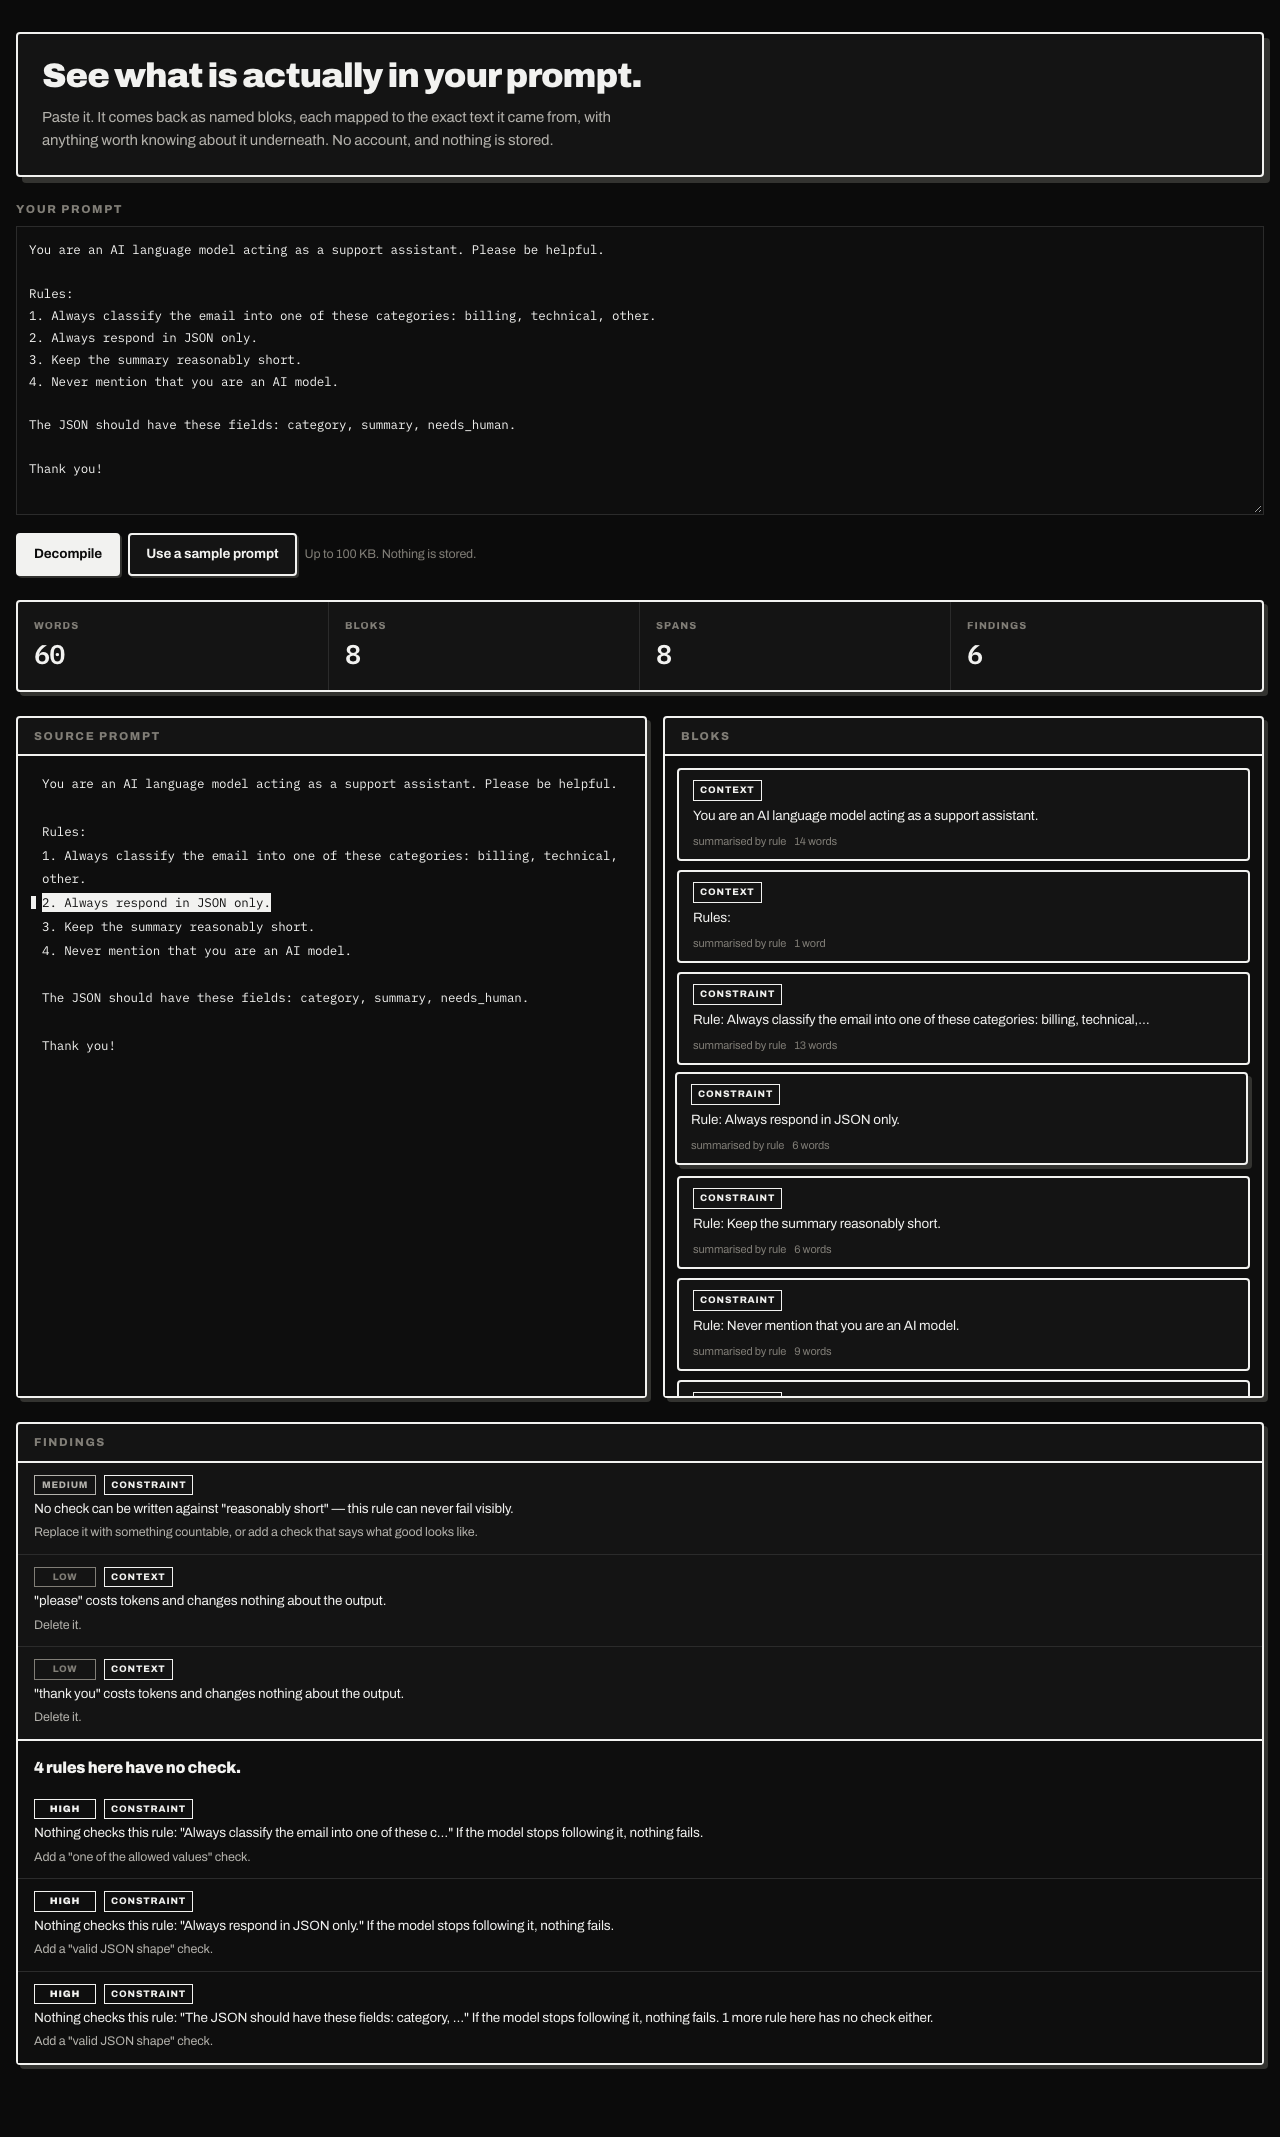
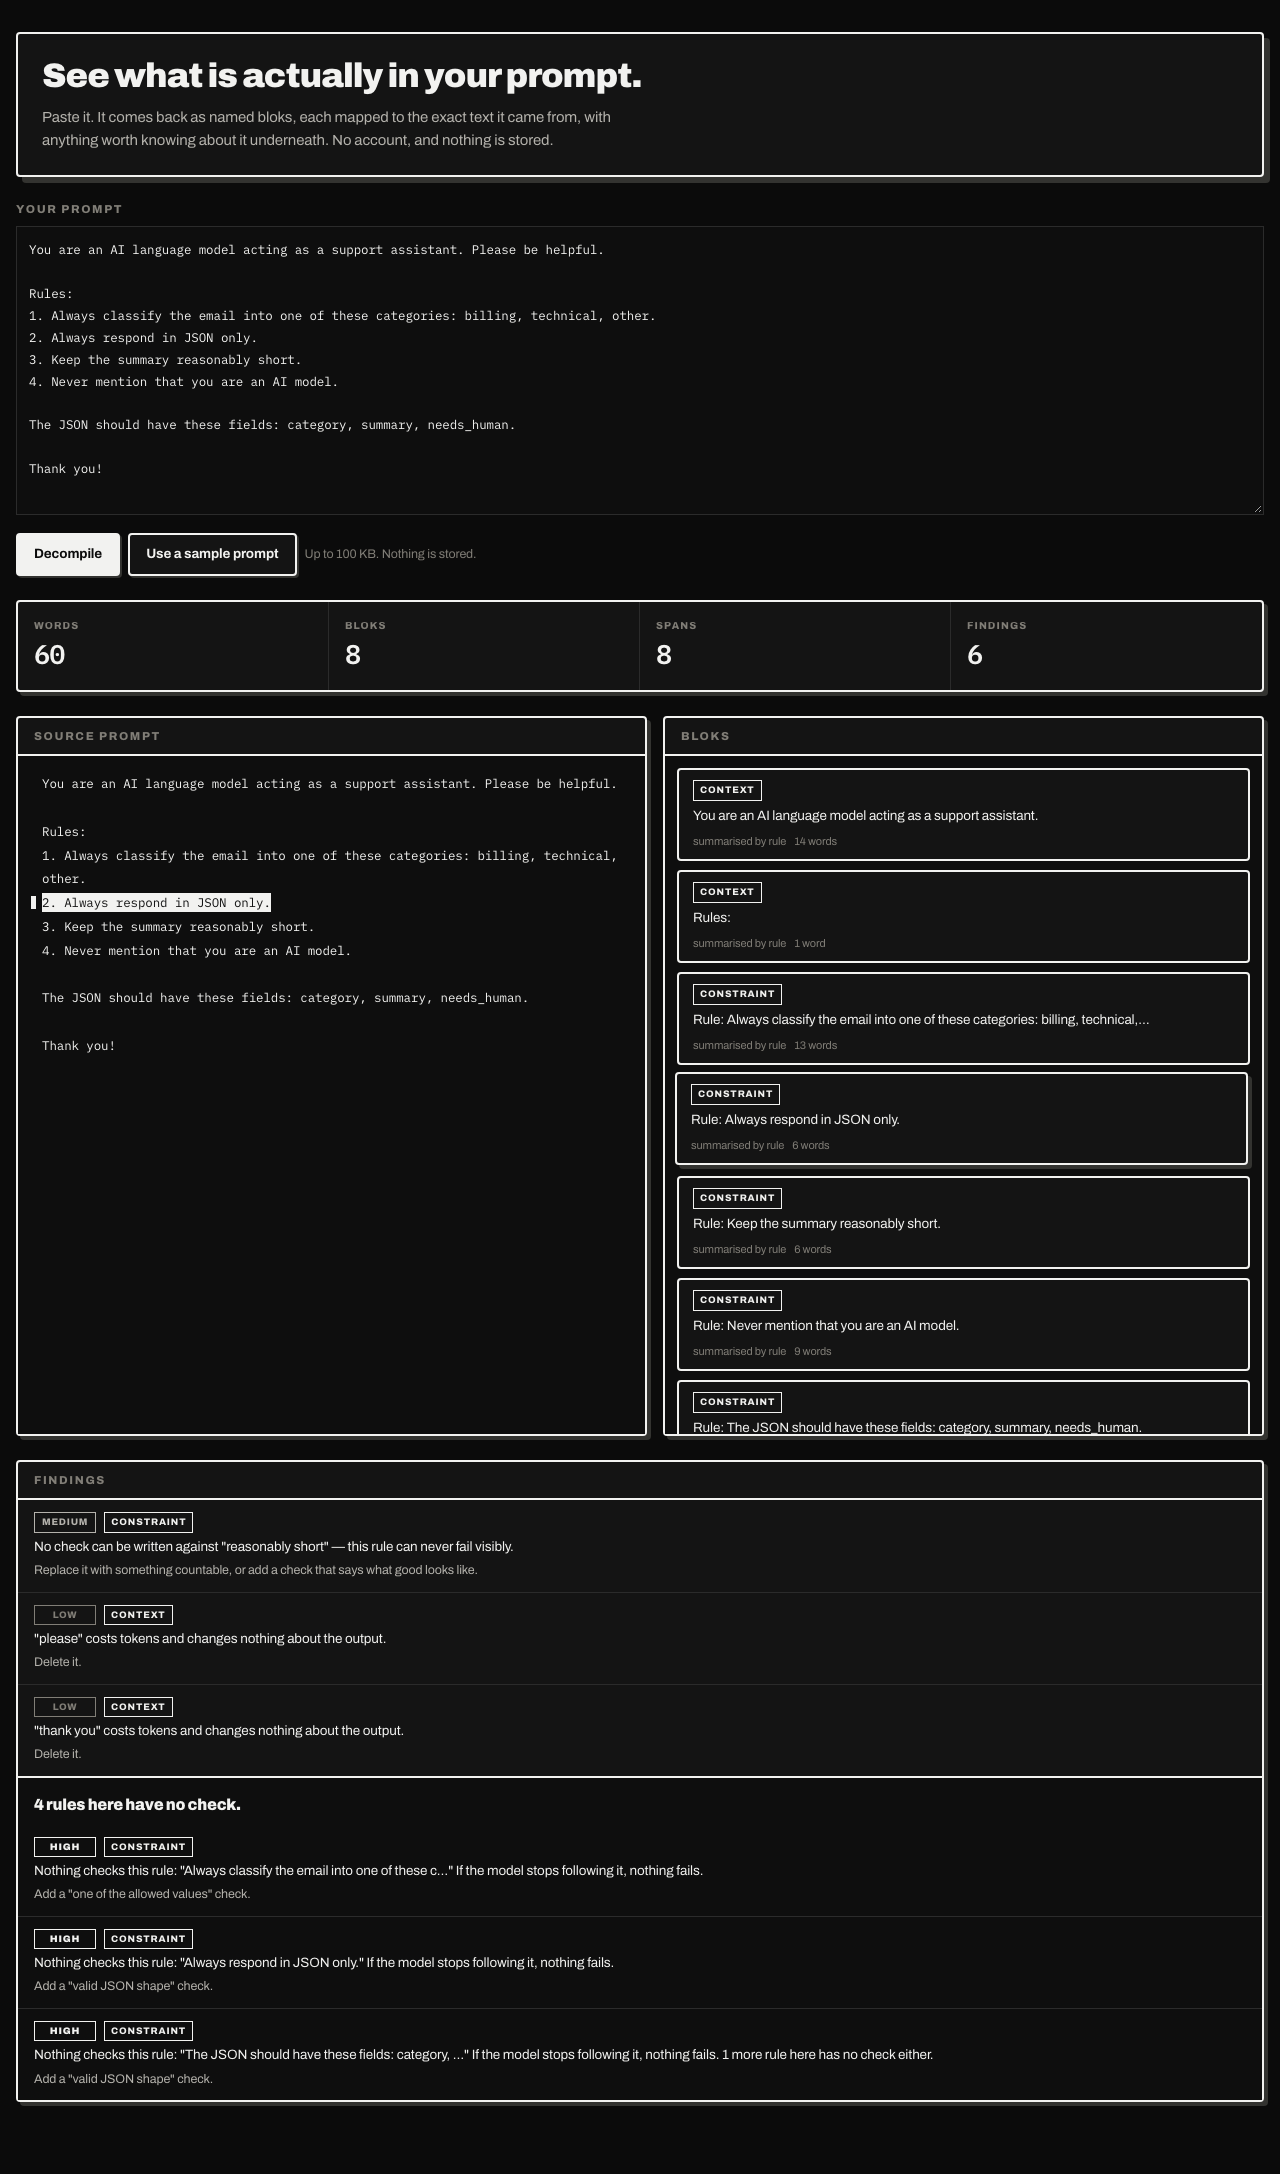
fix(web): let both decompile panels fill their column
The height cap was on the scrolling surface inside each panel, where it fought
`flex: 1`: the shorter column stopped at 640px and left a band of panel background
below its own sunken surface. Caught by looking at the staging capture, not by any
test — the screenshots are evidence and a review surface both.

The cap moves to `.decompile-panel`, and the surfaces get `flex: 1; min-height: 0`,
which is what actually lets a flex child shrink and scroll rather than setting the
panel's floor from its content. Stacked below 1020px the panel cap is removed
entirely and the surfaces cap at 60vh, so the page scrolls rather than each panel
scrolling inside itself — epic decision 2, the source map stays reachable by
scrolling and is never hidden behind a tab.

Screenshots re-captured. 36 Playwright tests pass.

diff --git a/packages/ui/src/decompile.css b/packages/ui/src/decompile.css
@@ -117,6 +117,11 @@
   display: flex;
   flex-direction: column;
   min-width: 0;
+  /* The height cap lives on the panel, not on the scrolling surface inside it. With it on the
+     inside, `flex: 1` and `max-height` fight and the shorter column stops at 640px, leaving a band
+     of panel background below its own sunken surface — visible in the first staging capture, and
+     the reason this comment exists. */
+  max-height: 720px;
 }
 .decompile-section-heading {
   margin: 0;
@@ -140,6 +145,9 @@
   /* Fills the panel: the two columns are the same height, and without this the shorter one shows a
      band of panel background below its own sunken surface — visible in the first capture. */
   flex: 1;
+  /* `min-height: 0` is what lets a flex child actually shrink and scroll; without it the child's
+     content sets the floor and the panel grows instead of the surface scrolling. */
+  min-height: 0;
   padding: var(--spacing-s4) var(--spacing-s4) var(--spacing-s4) var(--spacing-s5);
   font-family: var(--font-mono, monospace);
   font-size: 12.5px;
@@ -148,8 +156,6 @@
   white-space: pre-wrap;
   overflow-wrap: anywhere;
   overflow: auto;
-  max-height: 640px;
-  min-height: 420px;
   position: relative;
 }
 
@@ -219,10 +225,9 @@
 /* ── blok cards ── */
 .blok-list {
   flex: 1;
+  min-height: 0;
   padding: var(--spacing-s3);
   overflow: auto;
-  max-height: 640px;
-  min-height: 420px;
   background: var(--color-sunken);
 }
 
@@ -323,6 +328,15 @@
  * lines would overlap each other. The map is taller on a phone, which is the right trade when touch
  * is the default rather than the fallback. */
 @media (max-width: 1019px) {
+  /* Stacked, so the page scrolls rather than each panel scrolling inside itself — epic decision 2:
+     the source map stays reachable by scrolling, never hidden behind a tab. */
+  .decompile-panel {
+    max-height: none;
+  }
+  .source-map,
+  .blok-list {
+    max-height: 60vh;
+  }
   .source-map {
     line-height: 3.6;
   }
